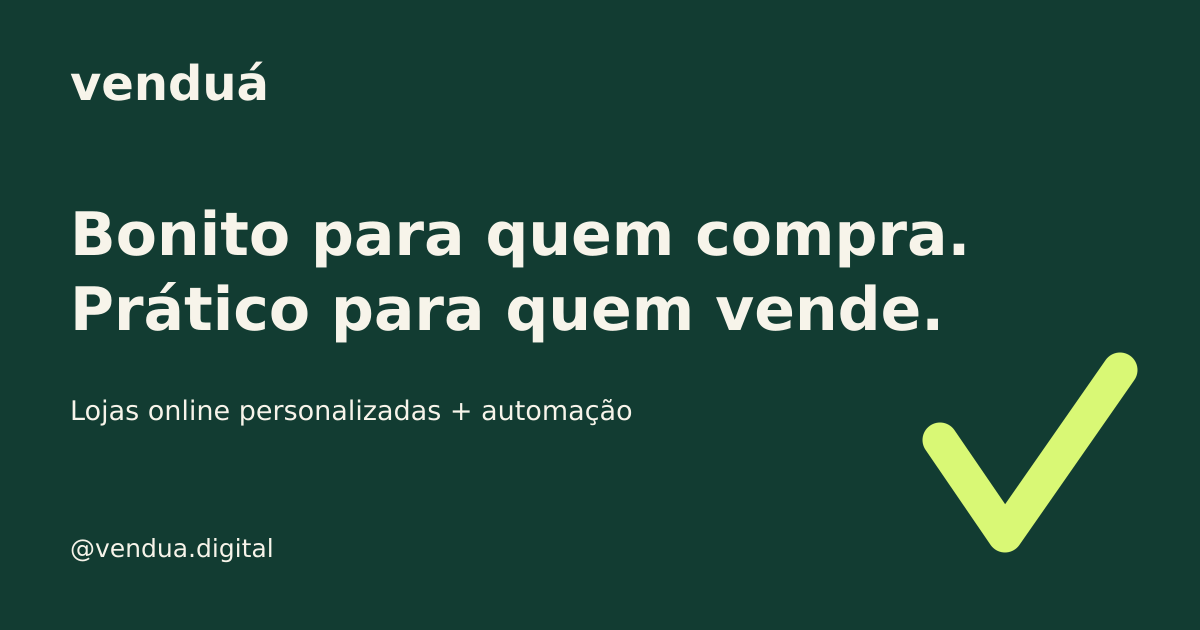
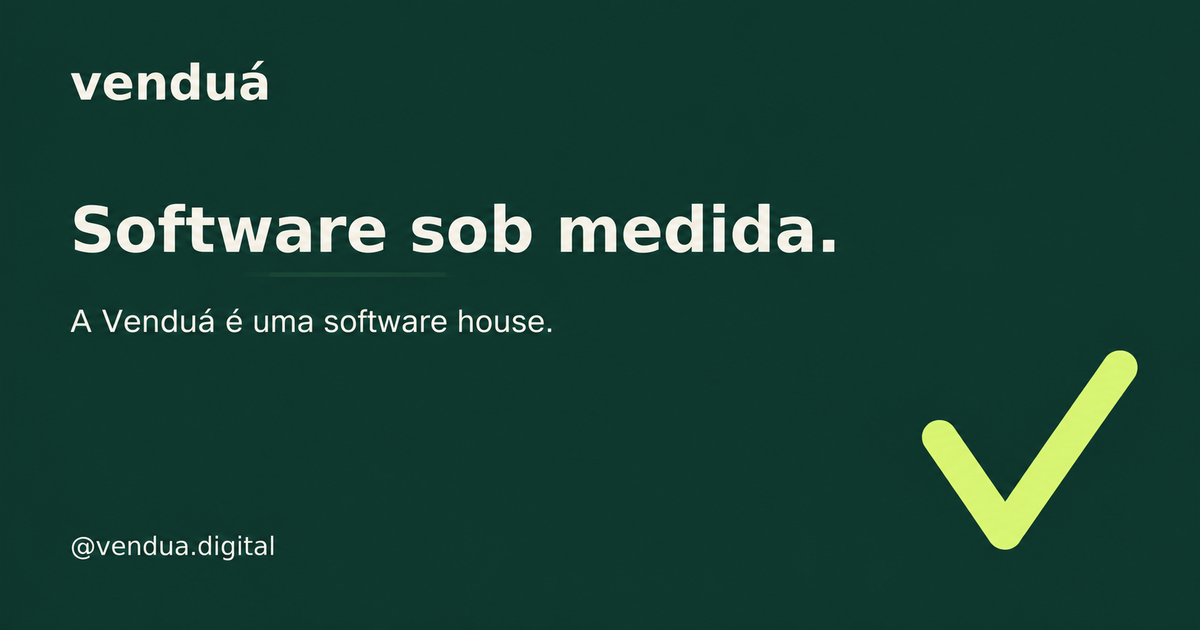
site: align SEO contract + social card with published domain
- site.spec.ts: assert the canonical href per route (404 uses the
  Seo default path '/'); it previously expected no canonicals.
- VALIDACAO.md: F05 now describes the published state — canonical,
  og:url and og:image emitted, robots allows crawling and points
  to the sitemap.
- social-card.png regenerated with the current message
  ('Software sob medida.') — the old 'lojas personalizadas' card
  would have gone live via og:image.

diff --git a/site/tests/site.spec.ts b/site/tests/site.spec.ts
@@ -241,8 +241,12 @@ test('zoom 200%, redução de movimento, links e SEO', async ({ page, request })
       await page.evaluate(() => getComputedStyle(document.documentElement).scrollBehavior),
     ).toBe('auto');
     await expect(page.locator('meta[name="description"]')).toHaveAttribute('content', /.+/);
-    // Canonical/OG absolutos só são emitidos quando site.publicDomain é definido (F05).
-    await expect(page.locator('link[rel="canonical"]')).toHaveCount(0);
+    // Canonical absoluto em todas as rotas (F05): a 404 usa o path default '/' do Seo.
+    const canonical = route === '/nao-existe/' ? '/' : route;
+    await expect(page.locator('link[rel="canonical"]')).toHaveAttribute(
+      'href',
+      `https://vendua.com.br${canonical}`,
+    );
   }
   await page.goto('/');
   const links = await page

diff --git a/site/VALIDACAO.md b/site/VALIDACAO.md
@@ -10,7 +10,7 @@ Escopo: reformulação do site como teaser misterioso e exclusivo para o novo pr
 | F02 — teaser         | Hero em viewport inteiro com shader WebGL2 próprio (ruído deformado desenhando fitas lima; paralaxe de ponteiro; pausa fora da viewport; quadro único em movimento reduzido; fallback para gradiente sem WebGL), tipografia em três camadas (caixa alta sólida, vazada em contorno, serifada itálica lima) e três sinais numerados; manifesto pinado com revelação palavra a palavra; faixa horizontal de três transmissões com shaders próprios por cartão (células, dobras poligonais, fluxos), clicáveis, abrindo modal `<dialog>` com descrição críptica e especificações (desktop pinado; pilha vertical no mobile e em movimento reduzido); ritual em três passos; quatro perguntas crípticas em details/summary com acordeão animado; encerramento centrado com marquee de acesso. |
 | F03 — acesso         | `/contato/` é uma página-porta sem formulário; o único destino externo é o perfil @vendua.digital em nova aba. CTAs da home convergem para `/contato/`.                                                                                                                                                                                                                                                                                                                                                                                                                                                                                                                                                                                                                                   |
 | F04 — erros          | HTTP 404 com HTML de recuperação em caminho desconhecido, também sem JS.                                                                                                                                                                                                                                                                                                                                                                                                                                                                                                                                                                                                                                                                                                                  |
-| F05 — publicação     | `publicDomain` vazio; canonical e URLs absolutas não emitidos; robots bloqueia indexação nessa condição. Sitemap limitado a `/` e `/contato/`.                                                                                                                                                                                                                                                                                                                                                                                                                                                                                                                                                                                                                                            |
+| F05 — publicação     | `publicDomain` = `https://vendua.com.br`; canonical, `og:url` e `og:image` absolutos emitidos em todas as rotas; robots permite rastreamento e aponta o sitemap, limitado a `/` e `/contato/` (`/privacidade/` e `/404/` seguem com `noindex`).                                                                                                                                                                                                                                                                                                                                                                                                                                                                                                                                                                                                                                            |
 | F06 — acessibilidade | pt-BR, um H1 por página, foco visível em lima, skip link, elementos nativos. Auditoria axe sem violações nas quatro rotas, executada com movimento reduzido para auditar o estado final. Layout sem overflow em 320, 360, 390, 768, 1280 e 1440 px e zoom CSS 200%; `prefers-reduced-motion` desliga GSAP e as animações CSS.                                                                                                                                                                                                                                                                                                                                                                                                                                                             |
 
 ## Revisão de interface
@@ -37,4 +37,4 @@ Em viewport de 390 px, a soma das respostas iniciais foi **166.002 bytes** (HTML
 
 Não verificados: leitor de tela real, aparelhos físicos, Safari/Firefox, sessão do Instagram, infraestrutura de produção e suas regras de logs, HTTPS e redirecionamento. A presença e o destino correto do link de Instagram foram verificados localmente; nenhuma mensagem foi enviada.
 
-O cartão social (`social-card.png`) ainda mostra a mensagem da fase anterior e deve ser regenerado antes da publicação. Domínio adquirido, oferta comercial, identificação do responsável e política final seguem pendentes. Copy do teaser é intencionalmente vaga; detalhes do produto serão incorporados quando definidos. Não houve deploy.
+O cartão social (`social-card.png`) foi regenerado com a mensagem atual ("Software sob medida."). Oferta comercial, identificação do responsável e política final seguem pendentes. Copy do teaser é intencionalmente vaga; detalhes do produto serão incorporados quando definidos. Não houve deploy.
